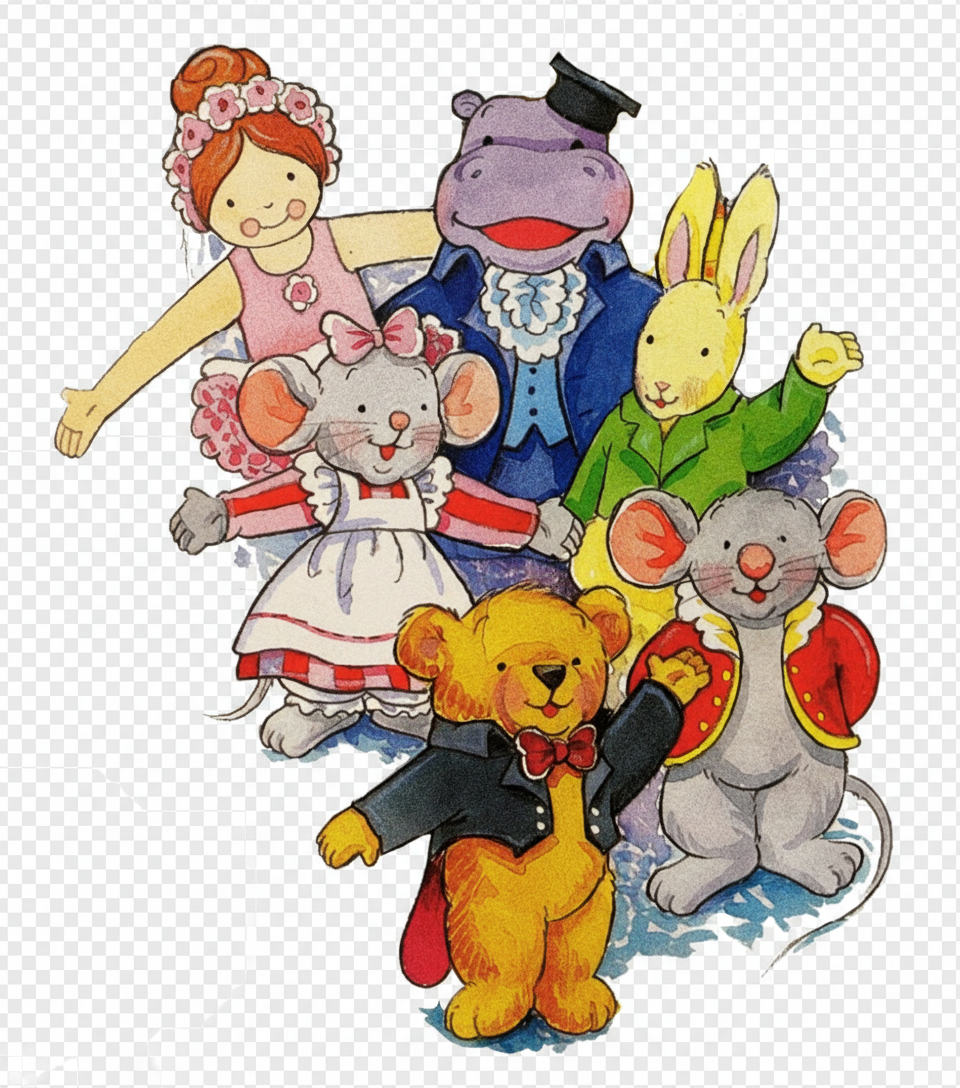
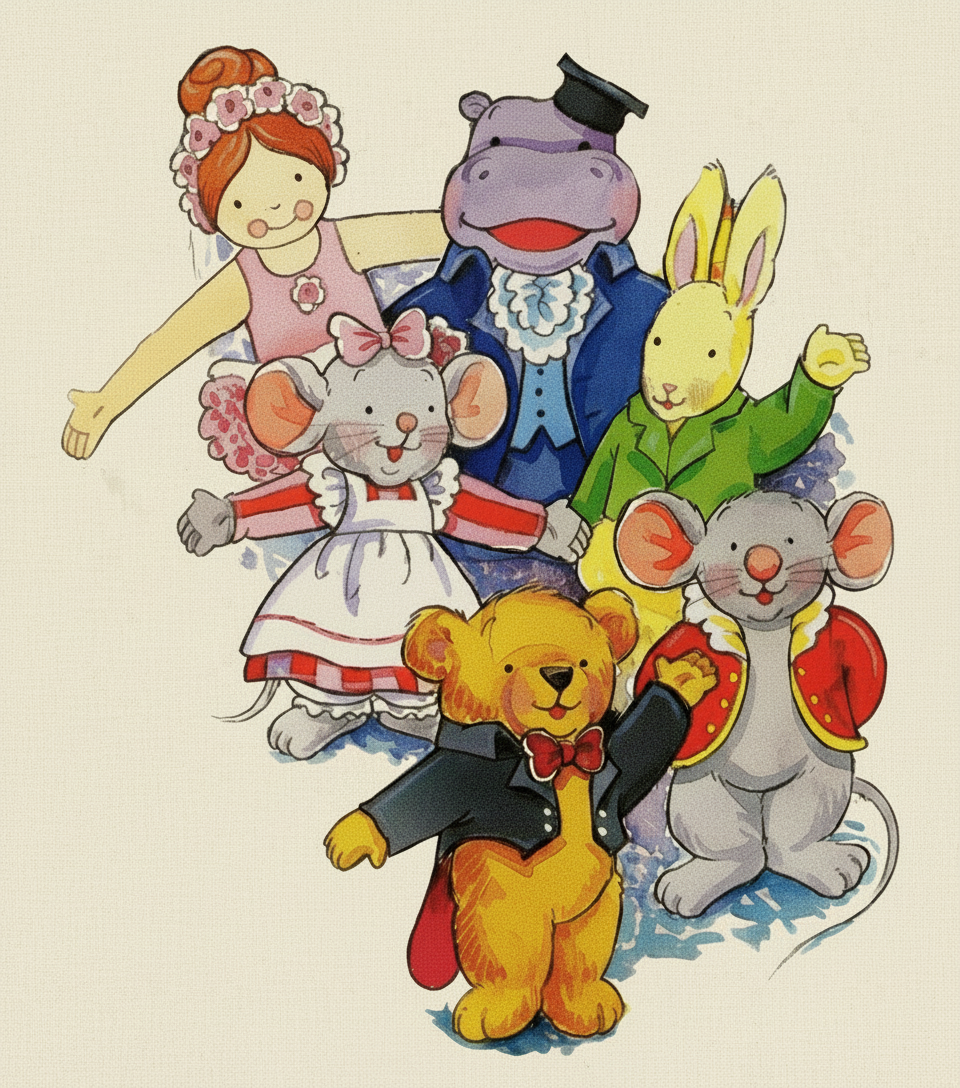
Changes

diff --git a/src/pages/Home.tsx b/src/pages/Home.tsx
@@ -30,7 +30,7 @@ const Home = () => {
             <img 
               src={mozartMouseBear} 
               alt="Mozart Mouse and Beethoven Bear characters" 
-              className="w-48 h-auto sm:w-64 drop-shadow-lg bg-background rounded-lg p-2"
+              className="w-48 h-auto sm:w-64 drop-shadow-lg"
             />
           </div>
 
@@ -54,7 +54,7 @@ const Home = () => {
               <img 
                 src={groupCharacters} 
                 alt="Little Mozart characters group" 
-                className="w-full max-w-lg h-auto drop-shadow-md bg-background rounded-lg p-2"
+                className="w-full max-w-lg h-auto drop-shadow-md"
               />
             </div>
 

diff --git a/src/index.css b/src/index.css
@@ -2,8 +2,8 @@
 @tailwind components;
 @tailwind utilities;
 
-/* Import Google Fonts - Professional yet friendly */
-@import url('https://fonts.googleapis.com/css2?family=Quicksand:wght@400;500;600;700&family=Lato:ital,wght@0,300;0,400;0,700;1,400&display=swap');
+/* Import Google Fonts - Kid-friendly but tasteful */
+@import url('https://fonts.googleapis.com/css2?family=Baloo+2:wght@400;500;600;700&family=Nunito:ital,wght@0,300;0,400;0,500;0,600;0,700;1,400&display=swap');
 
 /* Music for Little Mozart Design System
    Nostalgic 90s-early 2000s aesthetic with warmth and professionalism

diff --git a/tailwind.config.ts b/tailwind.config.ts
@@ -14,8 +14,8 @@ export default {
     },
     extend: {
       fontFamily: {
-        heading: ['"Quicksand"', 'system-ui', 'sans-serif'],
-        body: ['"Lato"', 'system-ui', 'sans-serif'],
+        heading: ['"Baloo 2"', 'system-ui', 'sans-serif'],
+        body: ['"Nunito"', 'system-ui', 'sans-serif'],
       },
       colors: {
         border: "hsl(var(--border))",
